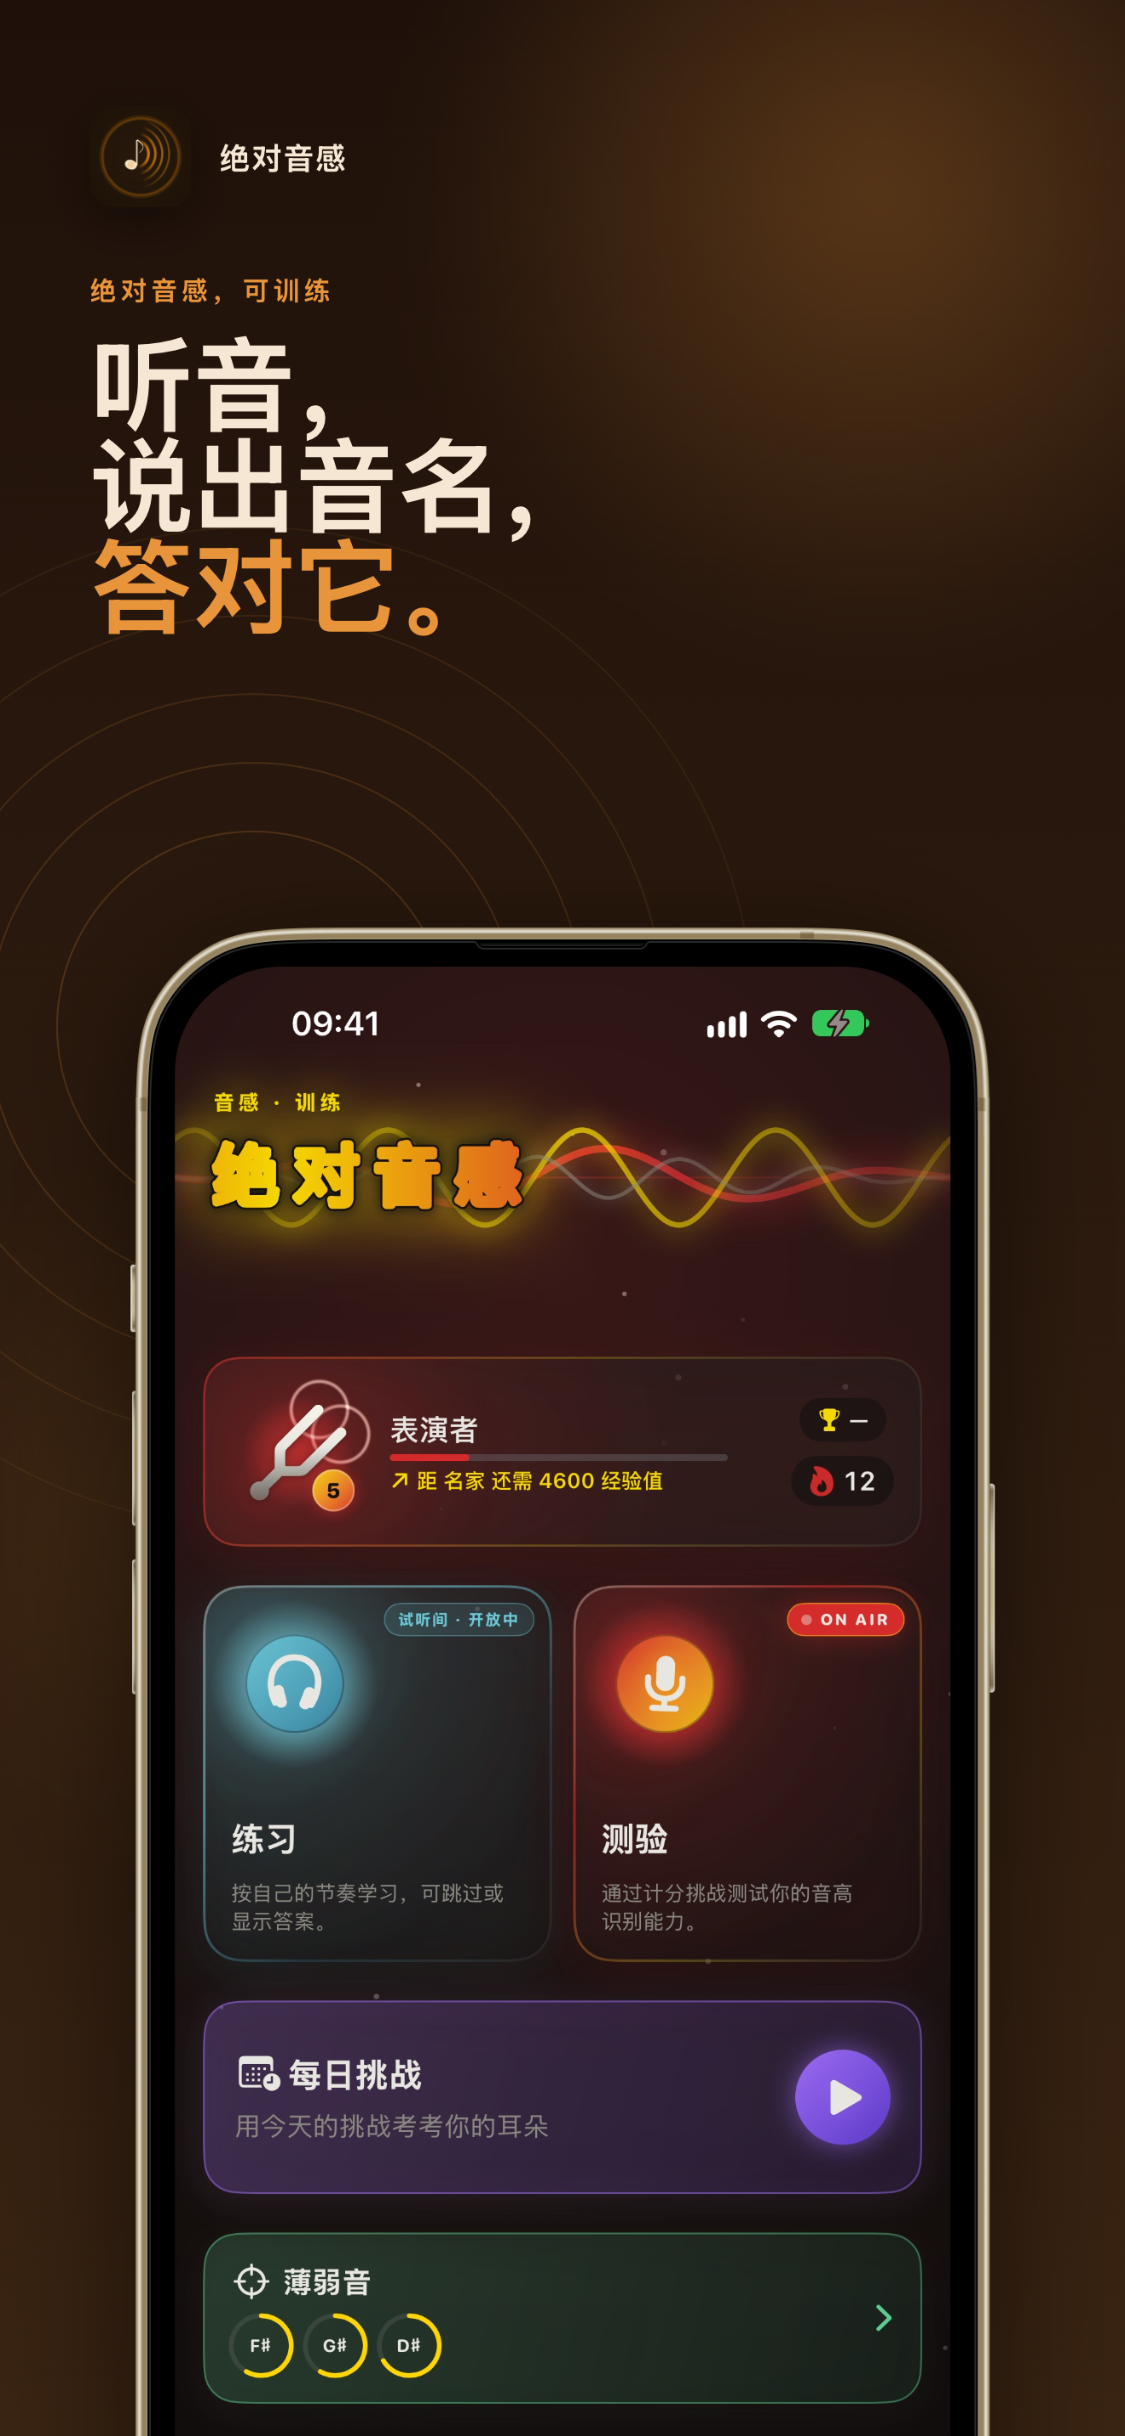
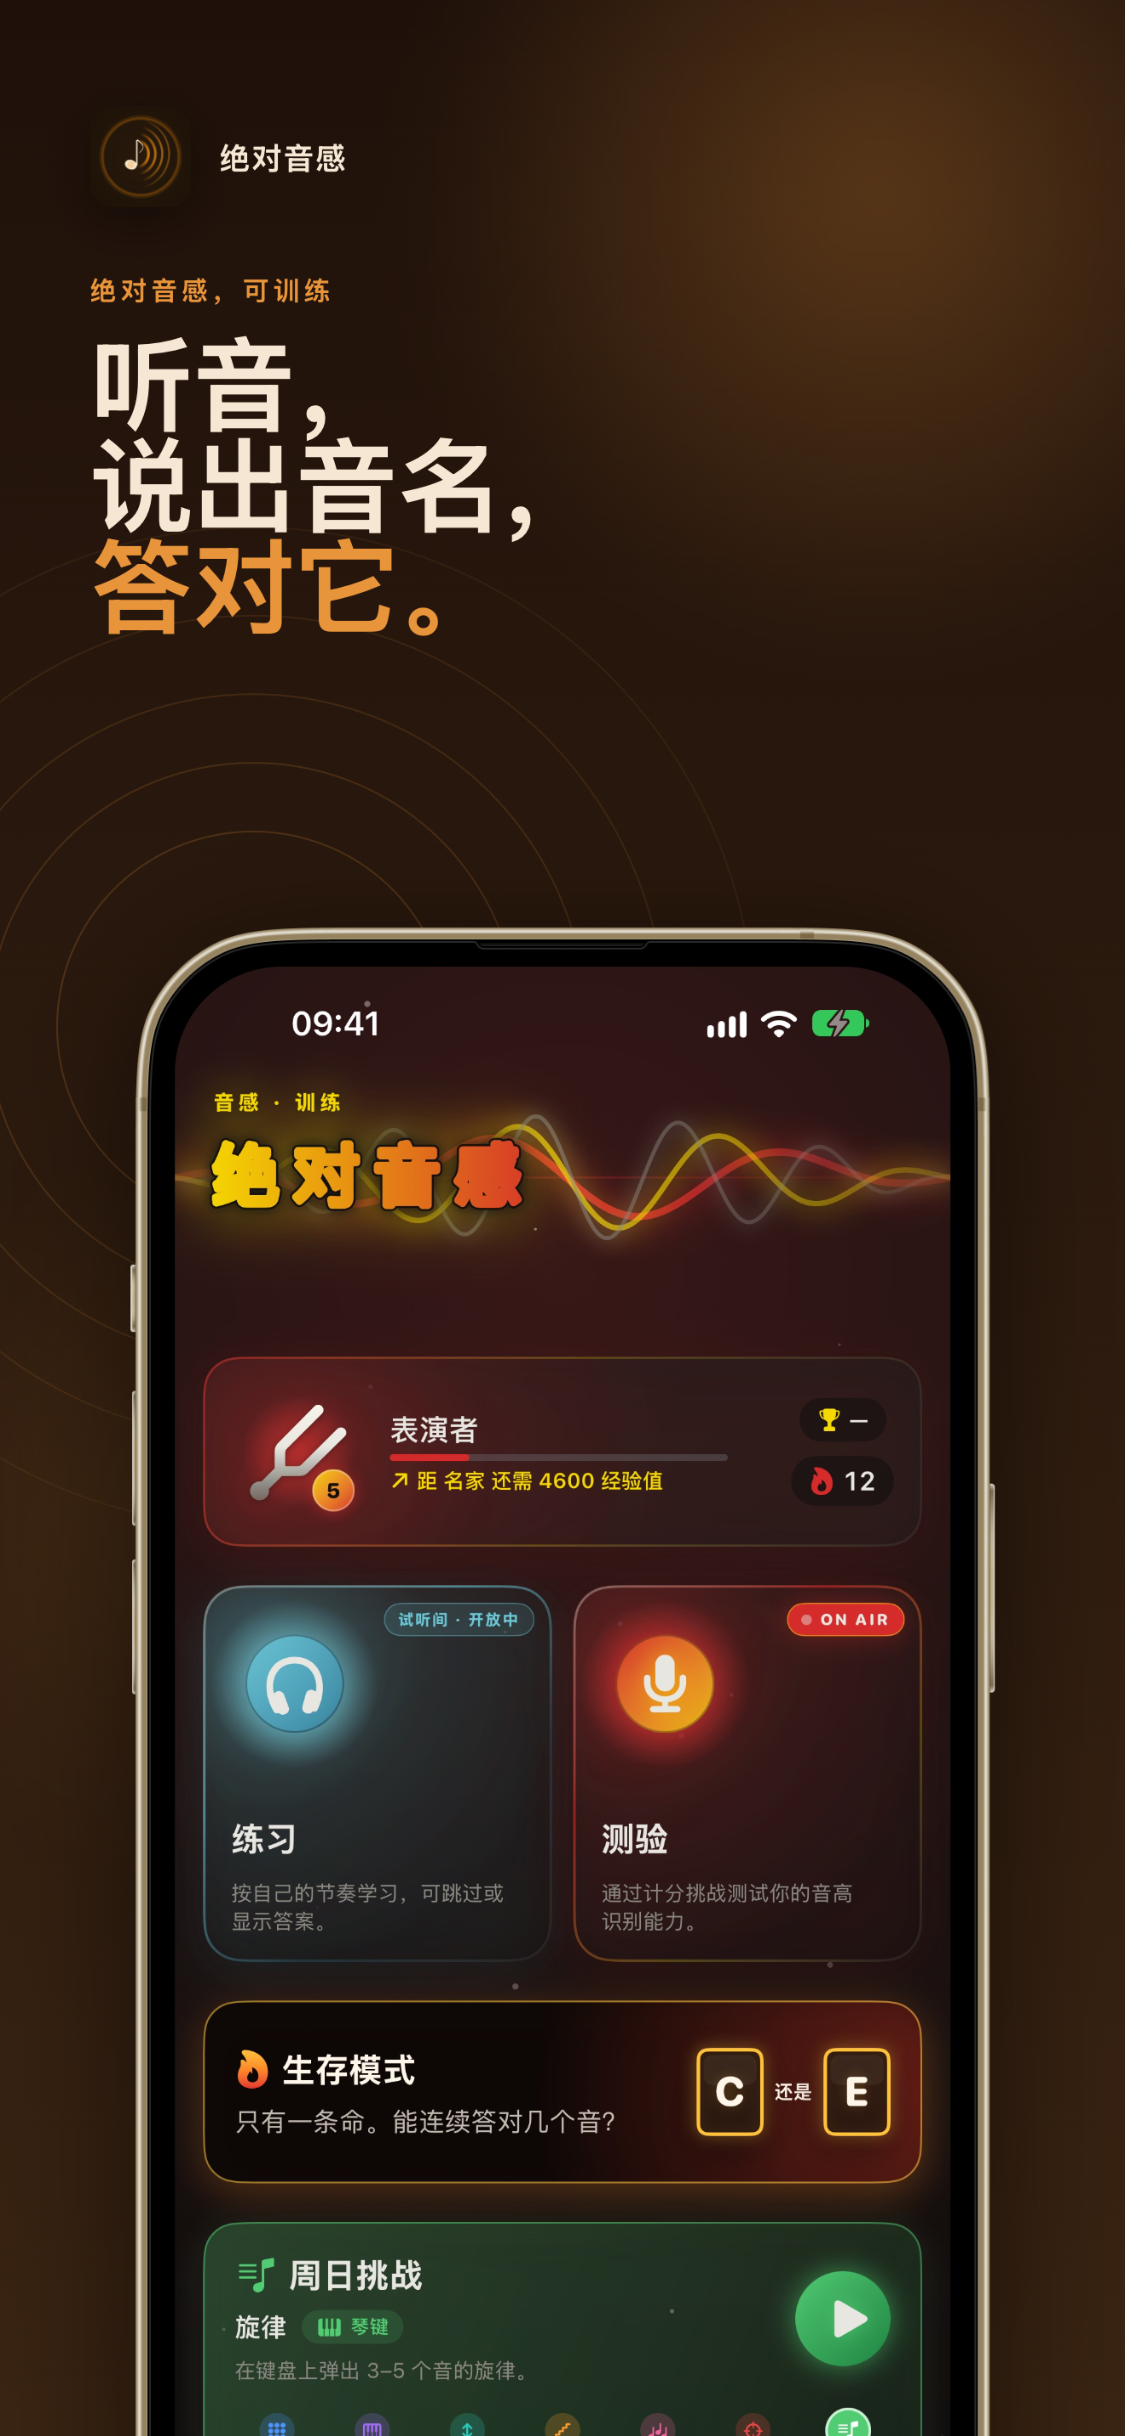
Gallery: Survival as screen 2, renumbered to the 1.5.0 store set
The six store screenshots (01-hero, 02-survival, 03-weaknotes, 04-onfire,
05-progress, 06-rank) in all six languages, with the new home screen;
the old 02–05 files are gone.

diff --git a/src/app/[locale]/_dictionaries/ja.ts b/src/app/[locale]/_dictionaries/ja.ts
@@ -71,10 +71,11 @@ const ja: Dictionary = {
     title: "楽器のようにデザインしました。",
     list: [
       { label: "耳を鍛える", headline: "音を聴いて、 / 音を当てる。", file: "01-hero" },
-      { label: "苦手な音をトレーニング", headline: "苦手な音を見つけて、 / 克服しよう。", file: "02-weaknotes" },
-      { label: "絶好調", headline: "ゾーンに / 入ろう。", file: "03-onfire" },
-      { label: "あなたの進歩", headline: "毎日、 / すべての音を / 正確に。", file: "04-progress" },
-      { label: "ランクを上げる", headline: "レベルアップ。 / 連続を守ろう。", file: "05-rank" },
+      { label: "サバイバルモード", headline: "ライフは1つ。 / どこまで行ける？", file: "02-survival" },
+      { label: "苦手な音をトレーニング", headline: "苦手な音を見つけて、 / 克服しよう。", file: "03-weaknotes" },
+      { label: "絶好調", headline: "ゾーンに / 入ろう。", file: "04-onfire" },
+      { label: "あなたの進歩", headline: "毎日、 / すべての音を / 正確に。", file: "05-progress" },
+      { label: "ランクを上げる", headline: "レベルアップ。 / 連続を守ろう。", file: "06-rank" },
     ],
   },
   science: {

diff --git a/src/app/[locale]/_dictionaries/de.ts b/src/app/[locale]/_dictionaries/de.ts
@@ -71,10 +71,11 @@ const de: Dictionary = {
     title: "Gestaltet wie ein Instrument.",
     list: [
       { label: "TRAINIERE DEIN GEHÖR", headline: "Hör den Ton. / Bestimme den Ton.", file: "01-hero" },
-      { label: "SCHWACHE NOTEN TRAINIEREN", headline: "Finde deine schwachen Noten. / Trainiere sie.", file: "02-weaknotes" },
-      { label: "HEISSE SERIEN", headline: "Komm in / den Flow.", file: "03-onfire" },
-      { label: "DEIN FORTSCHRITT", headline: "Jeden Ton, / jeden Tag / ein Stück besser.", file: "04-progress" },
-      { label: "STEIG AUF", headline: "Nächstes Level. / Serien sichern.", file: "05-rank" },
+      { label: "SURVIVAL-MODUS", headline: "Ein Leben. / Wie weit kommst du?", file: "02-survival" },
+      { label: "SCHWACHE NOTEN TRAINIEREN", headline: "Finde deine schwachen Noten. / Trainiere sie.", file: "03-weaknotes" },
+      { label: "HEISSE SERIEN", headline: "Komm in / den Flow.", file: "04-onfire" },
+      { label: "DEIN FORTSCHRITT", headline: "Jeden Ton, / jeden Tag / ein Stück besser.", file: "05-progress" },
+      { label: "STEIG AUF", headline: "Nächstes Level. / Serien sichern.", file: "06-rank" },
     ],
   },
   science: {

diff --git a/src/app/[locale]/_dictionaries/fr.ts b/src/app/[locale]/_dictionaries/fr.ts
@@ -71,10 +71,11 @@ const fr: Dictionary = {
     title: "Conçue comme un instrument.",
     list: [
       { label: "ENTRAÎNE TON OREILLE", headline: "Écoute la note. / Nomme-la.", file: "01-hero" },
-      { label: "NOTES FAIBLES", headline: "Repère tes notes faibles. / Travaille-les.", file: "02-weaknotes" },
-      { label: "SÉRIES EN FEU", headline: "Reste / dans la zone.", file: "03-onfire" },
-      { label: "TES PROGRÈS", headline: "Chaque note, / chaque jour, / plus juste.", file: "04-progress" },
-      { label: "GRIMPE DANS LES RANGS", headline: "Monte de niveau. / Garde tes séries.", file: "05-rank" },
+      { label: "MODE SURVIE", headline: "Une seule vie. / Jusqu’où iras-tu ?", file: "02-survival" },
+      { label: "NOTES FAIBLES", headline: "Repère tes notes faibles. / Travaille-les.", file: "03-weaknotes" },
+      { label: "SÉRIES EN FEU", headline: "Reste / dans la zone.", file: "04-onfire" },
+      { label: "TES PROGRÈS", headline: "Chaque note, / chaque jour, / plus juste.", file: "05-progress" },
+      { label: "GRIMPE DANS LES RANGS", headline: "Monte de niveau. / Garde tes séries.", file: "06-rank" },
     ],
   },
   science: {

diff --git a/src/app/[locale]/_dictionaries/es.ts b/src/app/[locale]/_dictionaries/es.ts
@@ -71,10 +71,11 @@ const es: Dictionary = {
     title: "Diseñada como un instrumento.",
     list: [
       { label: "ENTRENA TU OÍDO", headline: "Escucha la nota. / Nómbrala.", file: "01-hero" },
-      { label: "NOTAS DÉBILES", headline: "Descubre tus notas débiles. / Entrénalas.", file: "02-weaknotes" },
-      { label: "RACHAS QUE QUEMAN", headline: "Entra / en zona.", file: "03-onfire" },
-      { label: "TU PROGRESO", headline: "Cada nota, / cada día, / más afinada.", file: "04-progress" },
-      { label: "SUBE DE RANGO", headline: "Sube de nivel. / Mantén tus rachas.", file: "05-rank" },
+      { label: "MODO SUPERVIVENCIA", headline: "Una vida. / ¿Hasta dónde llegarás?", file: "02-survival" },
+      { label: "NOTAS DÉBILES", headline: "Descubre tus notas débiles. / Entrénalas.", file: "03-weaknotes" },
+      { label: "RACHAS QUE QUEMAN", headline: "Entra / en zona.", file: "04-onfire" },
+      { label: "TU PROGRESO", headline: "Cada nota, / cada día, / más afinada.", file: "05-progress" },
+      { label: "SUBE DE RANGO", headline: "Sube de nivel. / Mantén tus rachas.", file: "06-rank" },
     ],
   },
   science: {

diff --git a/src/app/[locale]/_dictionaries/en.ts b/src/app/[locale]/_dictionaries/en.ts
@@ -71,10 +71,11 @@ const en: Dictionary = {
     title: "Designed like an instrument.",
     list: [
       { label: "TRAIN YOUR EAR", headline: "Hear the note. / Name the note.", file: "01-hero" },
-      { label: "WEAK NOTES TRAINING", headline: "Find your weak notes. / Fix them.", file: "02-weaknotes" },
-      { label: "HOT STREAKS", headline: "Catch fire. / Stay on it.", file: "03-onfire" },
-      { label: "YOUR PROGRESS", headline: "Every note, / every day, / sharper.", file: "04-progress" },
-      { label: "CLIMB THE RANKS", headline: "Level up. / Lock in streaks.", file: "05-rank" },
+      { label: "SURVIVAL MODE", headline: "One life. / How far can you go?", file: "02-survival" },
+      { label: "WEAK NOTES TRAINING", headline: "Find your weak notes. / Fix them.", file: "03-weaknotes" },
+      { label: "HOT STREAKS", headline: "Catch fire. / Stay on it.", file: "04-onfire" },
+      { label: "YOUR PROGRESS", headline: "Every note, / every day, / sharper.", file: "05-progress" },
+      { label: "CLIMB THE RANKS", headline: "Level up. / Lock in streaks.", file: "06-rank" },
     ],
   },
   science: {

diff --git a/src/app/[locale]/_dictionaries/zh-Hans.ts b/src/app/[locale]/_dictionaries/zh-Hans.ts
@@ -71,10 +71,11 @@ const zhHans: Dictionary = {
     title: "像乐器一样的设计。",
     list: [
       { label: "训练你的耳朵", headline: "听音， / 说出音名。", file: "01-hero" },
-      { label: "薄弱音训练", headline: "找出你的薄弱音， / 逐个攻克。", file: "02-weaknotes" },
-      { label: "连击火热", headline: "进入 / 心流。", file: "03-onfire" },
-      { label: "你的进步", headline: "每天 / 每个音 / 更敏锐。", file: "04-progress" },
-      { label: "段位攀升", headline: "升级。 / 守住连胜。", file: "05-rank" },
+      { label: "生存模式", headline: "只有一条命。 / 你能走多远？", file: "02-survival" },
+      { label: "薄弱音训练", headline: "找出你的薄弱音， / 逐个攻克。", file: "03-weaknotes" },
+      { label: "连击火热", headline: "进入 / 心流。", file: "04-onfire" },
+      { label: "你的进步", headline: "每天 / 每个音 / 更敏锐。", file: "05-progress" },
+      { label: "段位攀升", headline: "升级。 / 守住连胜。", file: "06-rank" },
     ],
   },
   science: {

diff --git a/src/app/[locale]/_dictionaries/types.ts b/src/app/[locale]/_dictionaries/types.ts
@@ -37,7 +37,7 @@ export type Dictionary = {
     list: Array<{
       label: string;
       headline: string;
-      file: "01-hero" | "02-weaknotes" | "03-onfire" | "04-progress" | "05-rank";
+      file: "01-hero" | "02-survival" | "03-weaknotes" | "04-onfire" | "05-progress" | "06-rank";
     }>;
   };
   science: {
